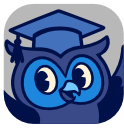
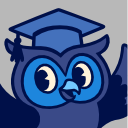
update images and PWA

diff --git a/Morepork Maps/index.html b/Morepork Maps/index.html
@@ -6,6 +6,10 @@
   <link rel="icon" type="image/svg+xml" href="/icon.svg" />
   <link rel="manifest" href="/manifest.json" />
   <meta name="viewport" content="width=device-width, initial-scale=1.0" />
+  <!-- iOS: enable standalone mode and add startup icon/splash images -->
+  <meta name="apple-mobile-web-app-capable" content="yes" />
+  <meta name="apple-mobile-web-app-status-bar-style" content="default" />
+  <link rel="apple-touch-icon" href="/iconx256.png" />
   <script defer src="https://umami.azurestudio.co.nz/script.js"
     data-website-id="11a69504-5cfa-4d58-aacd-b528c3eeba9c"></script>
   <title>Campus Compass - ARA</title>
